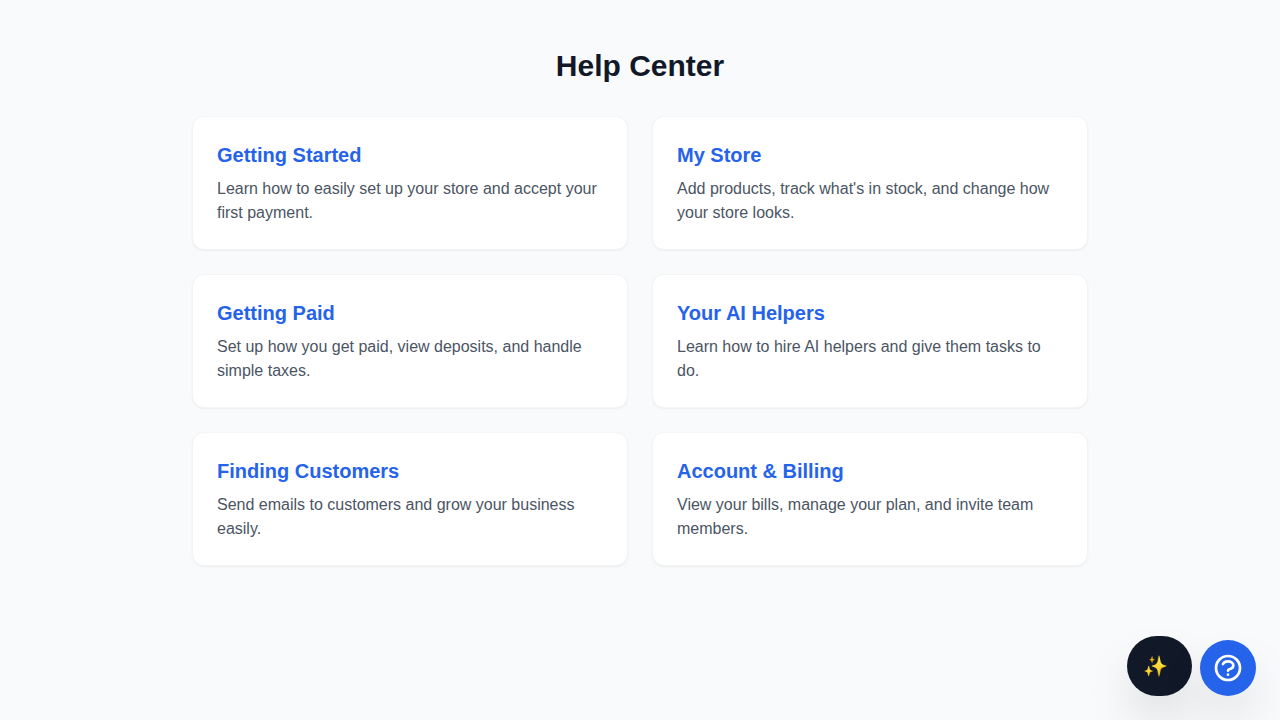
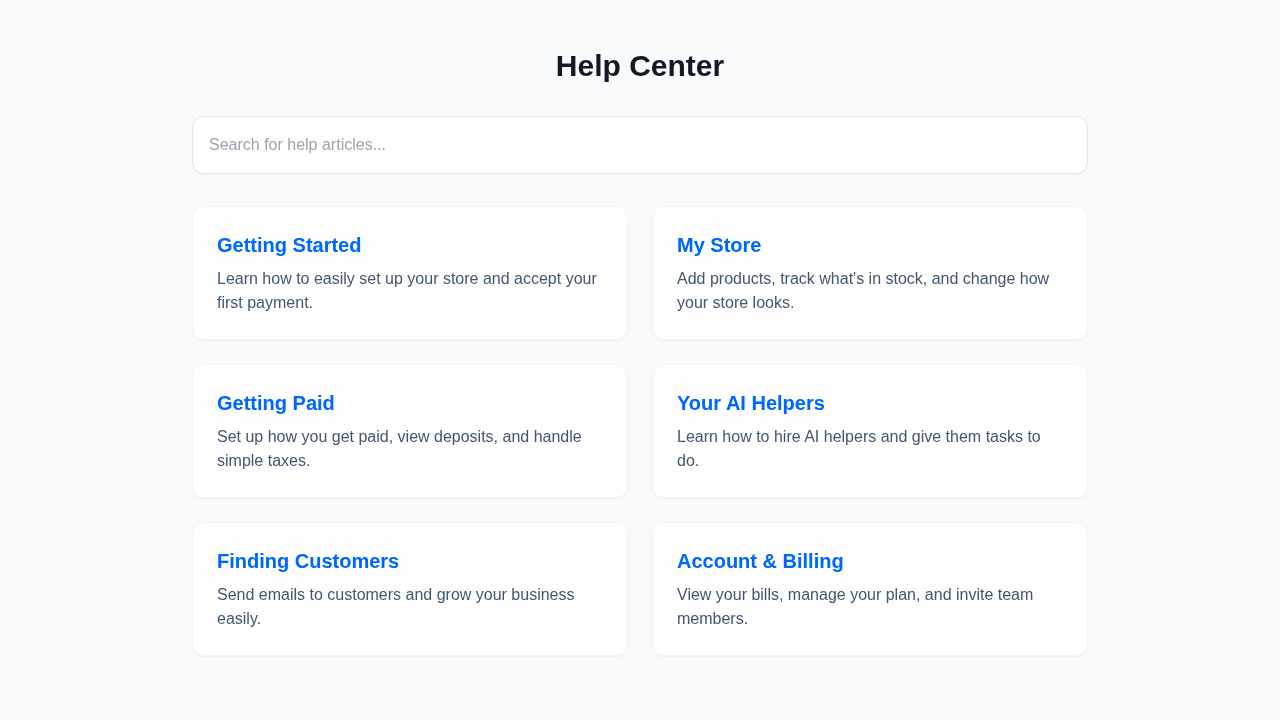
docs: add help and api-docs pages with Playwright E2E test coverage
- Created HelpCenterPage under /help routing with search capability and link to dummy API docs.
- Added Video Tutorials section under /help with mock API integration.
- Added ApiDocsPage under /api-docs showing a mocked Swagger UI response.
- Added ChangelogPage under /changelog to show application release notes.
- Included mock API backend endpoints.
- Updated e2e playwright tests to run on newly added routes.

diff --git a/src/e2e/help.spec.ts b/src/e2e/help.spec.ts
@@ -1,77 +1,41 @@
 import { test, expect } from './fixtures';
 
-test.describe('Help Center', () => {
+test.describe('Dashboard Basic UI', () => {
   test.beforeEach(async ({ page }) => {
-    await page.goto('/');
+    await page.goto('/dashboard');
   });
 
   test('should display dashboard with nav', async ({ page }) => {
-    await expect(page.getByRole('heading', { name: 'Dashboard' })).toBeVisible();
+    await expect(page.getByRole('heading', { name: 'Dashboard', exact: true })).toBeVisible();
     await expect(page.locator('nav')).toBeVisible();
   });
 
-  test('should show dashboard link in nav', async ({ page }) => {
-    const dashLink = page.locator('nav a:has-text("Dashboard")');
-    await expect(dashLink).toBeVisible();
+  test('should show Calendar link in nav', async ({ page }) => {
+    const calendarLink = page.locator('nav a').filter({ hasText: 'Calendar' });
+    await expect(calendarLink).toBeVisible();
   });
 
-  test('should show agents link in nav', async ({ page }) => {
-    const agentsLink = page.locator('nav a:has-text("Agents")');
-    await expect(agentsLink).toBeVisible();
+  test('should show Inbox link in nav', async ({ page }) => {
+    const inboxLink = page.locator('nav a:has-text("Inbox")');
+    await expect(inboxLink).toBeVisible();
   });
 
-  test('should show setup link in nav', async ({ page }) => {
-    const setupLink = page.locator('nav a:has-text("Setup")');
-    await expect(setupLink).toBeVisible();
-  });
-
-  test('should display welcome message', async ({ page }) => {
-    await expect(page.locator('text=Welcome back')).toBeVisible();
-  });
-
-  test('should display agents working message', async ({ page }) => {
-    await expect(page.locator('text=Your agents are working on your behalf')).toBeVisible();
+  test('should have working Agents nav link', async ({ page }) => {
+    await page.locator('nav a').filter({ hasText: 'AI Departments' }).click();
+    await expect(page.getByRole('heading', { name: 'AI Departments' })).toBeVisible();
   });
 });
 
-test.describe('Login Page', () => {
-  test('should display login form', async ({ page }) => {
-    await page.goto('/login');
-    await expect(page.getByRole('heading', { name: 'Login' })).toBeVisible();
-    await expect(page.getByPlaceholder('Email or Username').filter({ visible: true }).first()).toBeVisible();
-    await expect(page.locator('input[type="password"]').filter({ visible: true }).first()).toBeVisible();
-    await expect(page.locator('button:has-text("Login")')).toBeVisible();
+test.describe('Onboarding Page', () => {
+  test('should display onboarding wizard', async ({ page }) => {
+    await page.goto('/onboarding');
+    await expect(page.locator('h2').filter({ hasText: 'Tell us about your business' })).toBeVisible();
   });
 });
 
 test.describe('Agents Page', () => {
-  test('should display agents page', async ({ page }) => {
+  test('should display AI Departments heading', async ({ page }) => {
     await page.goto('/agents');
-    await expect(page.getByRole('heading', { name: 'Agents' })).toBeVisible();
-  });
-
-  test('should show hire agent button', async ({ page }) => {
-    await page.goto('/agents');
-    await expect(page.locator('button:has-text("Hire Agent")')).toBeVisible();
-  });
-});
-
-test.describe('Business Setup Page', () => {
-  test('should display setup page', async ({ page }) => {
-    await page.goto('/business-setup');
-    await expect(page.getByRole('heading', { name: 'OneHuman' })).toBeVisible();
-  });
-
-  test('should show setup wizard text', async ({ page }) => {
-    await page.goto('/business-setup');
-    await expect(page.locator('text=Your business, live in minutes')).toBeVisible();
-  });
-});
-
-test.describe('Dashboard', () => {
-  test('should have working nav links', async ({ page }) => {
-    await page.goto('/');
-    await page.locator('nav a:has-text("Agents")').click();
-    await expect(page.getByRole('heading', { name: 'Agents' })).toBeVisible();
+    await expect(page.getByRole('heading', { name: 'AI Departments' })).toBeVisible();
   });
 });

diff --git a/src/ui/next/src/app/help/page.tsx b/src/ui/next/src/app/help/page.tsx
@@ -5,12 +5,18 @@ import Link from 'next/link';
 
 export default function HelpCenterPage() {
   const [articles, setArticles] = useState<{title: string, desc: string, link: string}[]>([]);
+  const [videos, setVideos] = useState<{id: number, title: string, duration: string}[]>([]);
   const [searchQuery, setSearchQuery] = useState("");
 
   useEffect(() => {
     fetch('/api/help')
       .then(res => res.json())
       .then(data => setArticles(data))
+      .catch(console.error);
+
+    fetch('/api/videos')
+      .then(res => res.json())
+      .then(data => setVideos(data))
       .catch(console.error);
   }, []);
 
@@ -35,9 +41,9 @@ export default function HelpCenterPage() {
         </div>
 
         {filteredArticles.length === 0 ? (
-          <p className="text-center text-gray-500">No articles found matching "{searchQuery}"</p>
+          <p className="text-center text-gray-500 mb-12">No articles found matching "{searchQuery}"</p>
         ) : (
-          <div className="grid grid-cols-1 md:grid-cols-2 gap-6">
+          <div className="grid grid-cols-1 md:grid-cols-2 gap-6 mb-12">
             {filteredArticles.map((article, idx) => (
               <Link key={idx} href={article.link}>
                 <div className="bg-white/80 backdrop-blur-[20px] saturate-200 p-6 rounded-xl shadow-sm border border-gray-100 hover:border-blue-300 hover:shadow-md transition-all cursor-pointer h-full">
@@ -46,6 +52,31 @@ export default function HelpCenterPage() {
                 </div>
               </Link>
             ))}
+          </div>
+        )}
+
+        {videos.length > 0 && (
+          <div className="mt-16">
+            <h2 className="text-2xl font-bold text-gray-900 mb-6 font-outfit border-b pb-2">Video Tutorials</h2>
+            <div className="grid grid-cols-1 sm:grid-cols-2 lg:grid-cols-3 gap-6">
+              {videos.map((video) => (
+                <div key={video.id} className="bg-white/80 backdrop-blur-[20px] saturate-200 rounded-xl overflow-hidden shadow-sm border border-gray-100 hover:shadow-md transition-all cursor-pointer group flex flex-col">
+                  {/* Portrait optimized player placeholder */}
+                  <div className="w-full aspect-[9/16] bg-gray-900 relative flex items-center justify-center overflow-hidden">
+                    <div className="absolute inset-0 bg-gradient-to-b from-transparent to-black/60"></div>
+                    <div className="w-16 h-16 rounded-full bg-white/20 backdrop-blur-md flex items-center justify-center group-hover:scale-110 transition-transform shadow-lg border border-white/30">
+                      <svg className="w-8 h-8 text-white ml-1" fill="currentColor" viewBox="0 0 24 24"><path d="M8 5v14l11-7z" /></svg>
+                    </div>
+                    <div className="absolute bottom-3 right-3 bg-black/70 backdrop-blur-md text-white text-xs font-bold px-2 py-1 rounded">
+                      {video.duration}
+                    </div>
+                  </div>
+                  <div className="p-4 flex-1 flex items-center">
+                    <h3 className="font-bold text-gray-800 text-sm">{video.title}</h3>
+                  </div>
+                </div>
+              ))}
+            </div>
           </div>
         )}
       </div>
